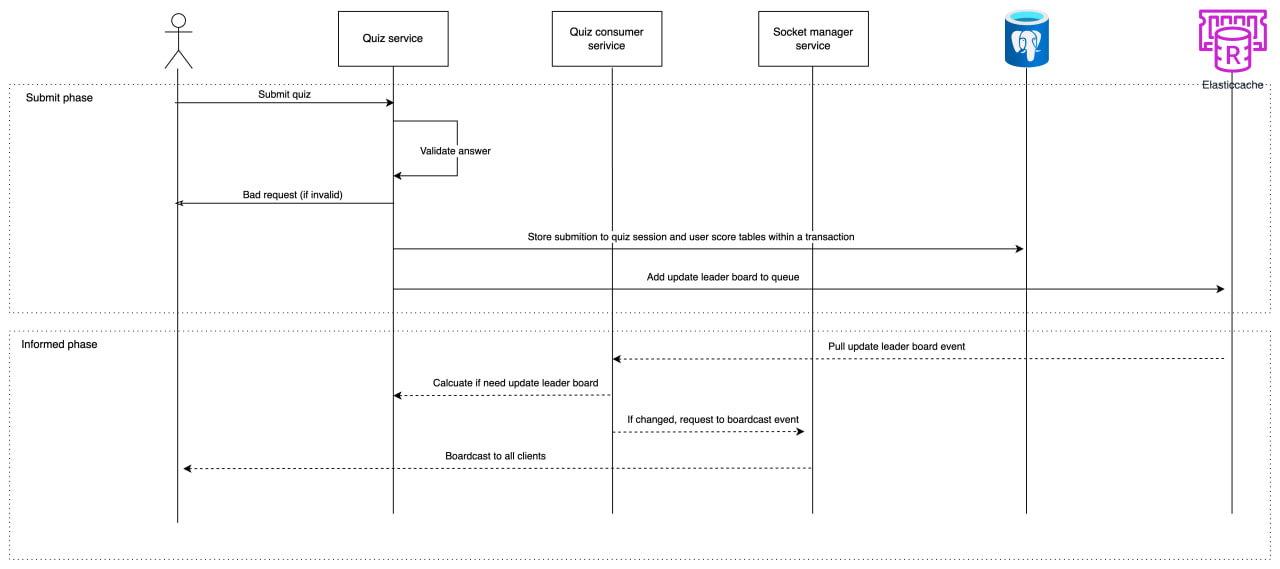
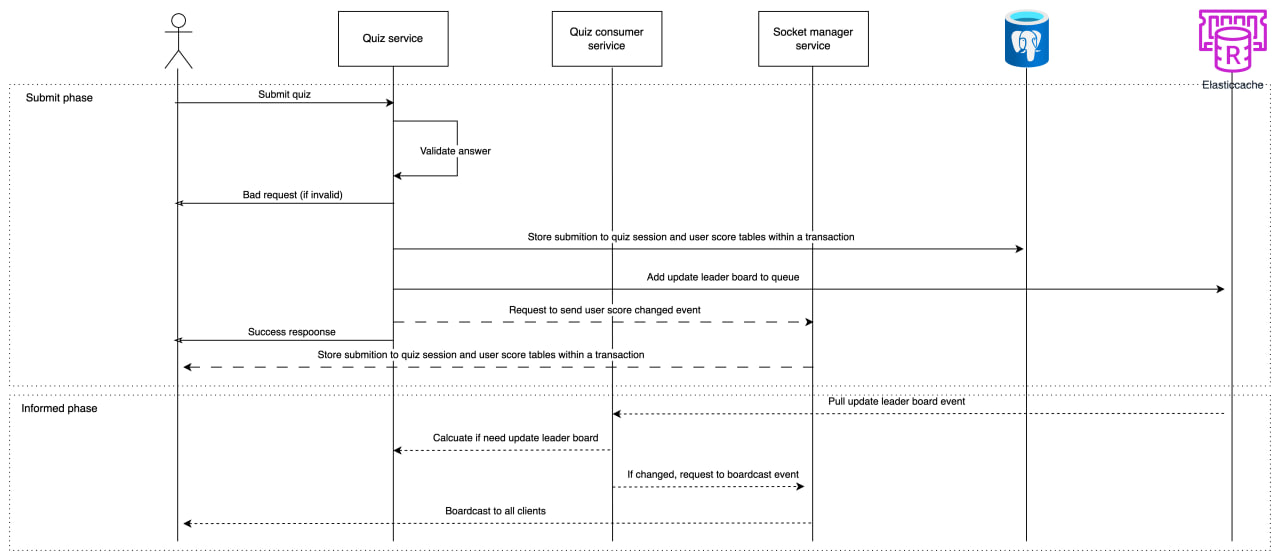
Update the flow to update the user score

diff --git a/src/modules/quiz/services/quiz-session.service.ts b/src/modules/quiz/services/quiz-session.service.ts
@@ -11,16 +11,20 @@ import { PrismaService } from 'src/modules/prisma';
 import { UserQuizSessionRepository } from '../repositories/user-quiz-session.repository';
 import { UserScoreRepository } from '../repositories/user-score.repository';
 import { UpdateLeaderBoardProducer } from 'src/modules/queue/producer/update-leader-board-producer';
+import { InternalSocketManagerService } from 'src/modules/shared/services/socket-manager.service';
+import { Logger } from 'src/modules/loggers/logger.service';
 
 @Injectable()
 export class QuizSessionService {
+  private readonly logger = new Logger(QuizSessionService.name);
   constructor(
     private readonly quizService: QuizService,
     private readonly prismaService: PrismaService,
     private readonly userQuizSessionRepository: UserQuizSessionRepository,
     private readonly userScoreRepository: UserScoreRepository,
+    private readonly internalSocketManagerService: InternalSocketManagerService,
     private readonly updateLeaderBoardProducer: UpdateLeaderBoardProducer,
-  ) {}
+  ) { }
 
   public async submitQuizSession(
     data: SubmitQuizSessionRequest,
@@ -41,7 +45,7 @@ export class QuizSessionService {
       this.userQuizSessionRepository,
       this.userScoreRepository,
     ];
-    await this.prismaService.transaction(async () => {
+    const userScore = await this.prismaService.transaction(async () => {
       await this.userQuizSessionRepository
         .create({
           quizId: quiz.id,
@@ -72,7 +76,17 @@ export class QuizSessionService {
         score: userScore.score,
         cid,
       });
+
+      return userScore;
     }, repositories);
+
+    // Update self score for the user
+    this.internalSocketManagerService.triggerUpdateSelfScore({
+      userId: userId,
+      score: userScore.score,
+    }).catch((err) => {
+      this.logger.error('Error updating self score', err);
+    });
   }
 
   private calculateScore(

diff --git a/src/modules/queue/consumer/update-leader-board-consumer.ts b/src/modules/queue/consumer/update-leader-board-consumer.ts
@@ -41,12 +41,6 @@ export class UpdateLeaderBoardConsumer extends BaseConsumer<UpdateLeaderBoardMes
         });
       }
 
-      // Update self score for the user
-      await this.internalSocketManagerService.triggerUpdateSelfScore({
-        userId: message.userId,
-        score: message.score,
-      });
-
       this.logger.info(`handled message:- messageId:${job.id}`);
 
       // Handle async case
